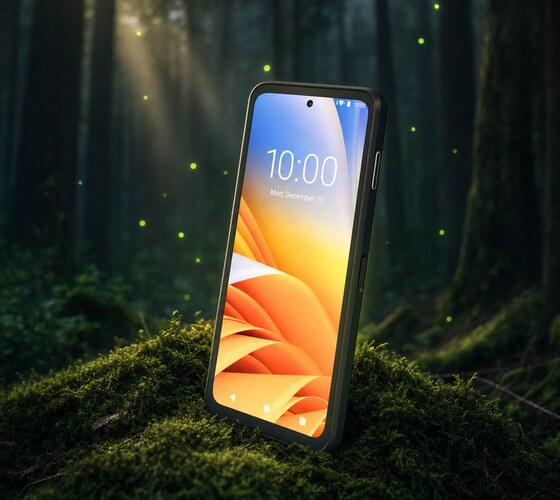
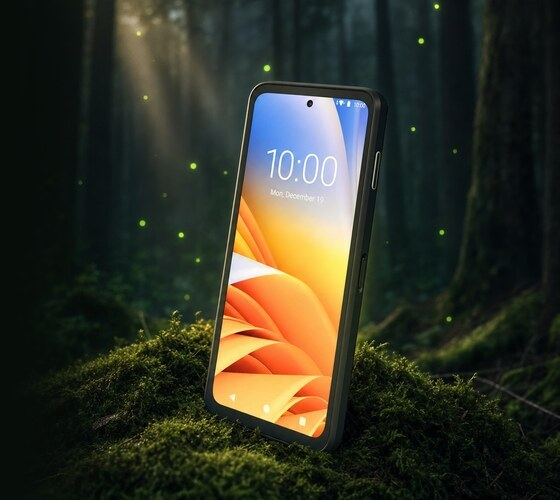
Baner EM45: wtopiona lewa krawedz i jezyk o smartfonie
1. Miedzy czarnym panelem a grafika bylo widac szew - obraz zaczynal sie
   od jasnosci ~21, a panel ma 9,7. Lewe 170 px wtopione w #070d09
   krzywa smoothstep, tak jak ma to baner Pospaya (sprawdzone pomiarem
   jasnosci kolumn: 9,7 na krawedzi).
2. "Terminal terenowy w obudowie smartfona" -> "Wzmocniony smartfon
   z Androidem". EM45 to smartfon i tak ma o nim byc napisane.

Sciezka grafiki z ?v=2.

diff --git a/public/newsletter/editions/2026-09-01-apple-iphone-ipad.html b/public/newsletter/editions/2026-09-01-apple-iphone-ipad.html
@@ -379,14 +379,14 @@
                       Zebra EM45
                     </p>
                     <p style="margin:0 0 14px;font-family:Arial,Helvetica,sans-serif;font-size:13px;line-height:1.55;color:#b9c7bd;">
-                      Terminal terenowy w&nbsp;obudowie smartfona: IP68, upadek z&nbsp;1,5&nbsp;m, 14&nbsp;godzin pracy.
+                      Wzmocniony smartfon z&nbsp;Androidem: IP68, upadek z&nbsp;1,5&nbsp;m, 14&nbsp;godzin pracy na baterii.
                     </p>
                     <a href="https://www.rejestratory.info/produkt/zebra-em45?utm_source=newsletter&utm_medium=email&utm_campaign=apple-2026-09-01" style="display:inline-block;font-family:Arial,Helvetica,sans-serif;font-size:13px;font-weight:bold;color:#a8f000;text-decoration:none;">
                       Zobacz szczegóły&nbsp;&#8594;
                     </a>
                   </td>
                   <td width="280" bgcolor="#070d09" align="right" valign="middle" style="background-color:#070d09;">
-                    <a href="https://www.rejestratory.info/produkt/zebra-em45?utm_source=newsletter&utm_medium=email&utm_campaign=apple-2026-09-01" style="text-decoration:none;"><img src="https://www.rejestratory.info/newsletter/em45-banner.jpg?v=1" alt="Zebra EM45 — terminal terenowy w obudowie smartfona" width="280" style="width:280px;max-width:280px;height:auto;border:0;display:block;"></a>
+                    <a href="https://www.rejestratory.info/produkt/zebra-em45?utm_source=newsletter&utm_medium=email&utm_campaign=apple-2026-09-01" style="text-decoration:none;"><img src="https://www.rejestratory.info/newsletter/em45-banner.jpg?v=2" alt="Zebra EM45 — terminal terenowy w obudowie smartfona" width="280" style="width:280px;max-width:280px;height:auto;border:0;display:block;"></a>
                   </td>
                 </tr>
               </table>
